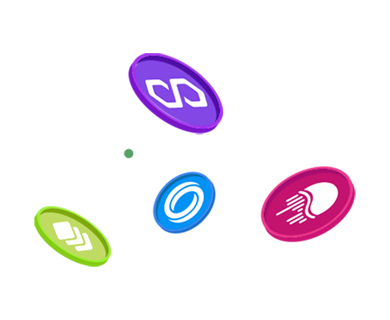
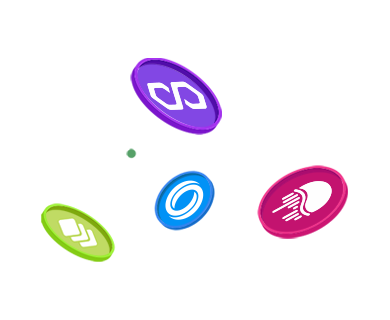
fix bg quality and max scale

diff --git a/src/components/Home/Hero/Hero.tsx b/src/components/Home/Hero/Hero.tsx
@@ -13,7 +13,7 @@ const w = 390;
 const h = 320;
 const r = h / w;
 
-const Outer = styled.div`
+const Container = styled(Inner)`
   display: flex;
   align-items: center;
   padding: ${40 + 24 * 2}px 0px;
@@ -23,17 +23,17 @@ const Outer = styled.div`
   background-size: ${(360 - 48) / 2}px ${((360 - 48) / 2) * r}px;
   min-height: 100vh;
   text-align: center;
+  flex-direction: column;
+  justify-content: center;
 
   @media (min-width: ${theme.breakpoints.sm}px) {
-    background-position: left 10%, right 10%, left bottom, right bottom;
+    background-position: left 5%, right 5%, left bottom, right bottom;
     background-size: ${(theme.breakpoints.sm - 48) / 2}px ${((theme.breakpoints.sm - 48) / 2) * r}px;
-  }
-
-  @media (min-width: ${theme.breakpoints.md}px) {
-    background-size: ${(theme.breakpoints.md - 48) / 2}px ${((theme.breakpoints.md - 48) / 2) * r}px;
+    width: 100%;
   }
 
   @media (min-width: ${theme.breakpoints.lg}px) {
+    width: ${theme.containers.lg}px;
     background-size: ${w}px ${h}px;
   }
 `;
@@ -75,21 +75,19 @@ const Buttons = styled.div`
 
 export const Hero = memo(function Hero() {
   return (
-    <Outer>
-      <Inner>
-        <Title>Multichain Yield Optimiser</Title>
-        <Subtitle>
-          Earn the highest APY’s across 16 chains with safety and efficiency in mind.
-        </Subtitle>
-        <Buttons>
-          <PrimaryExternalLink href="https://app.beefy.com/" target="_blank">
-            Launch App
-          </PrimaryExternalLink>
-          <SecondaryExternalLink href="https://docs.beefy.com/" target="_blank">
-            View Docs
-          </SecondaryExternalLink>
-        </Buttons>
-      </Inner>
-    </Outer>
+    <Container>
+      <Title>Multichain Yield Optimiser</Title>
+      <Subtitle>
+        Earn the highest APY’s across 16 chains with safety and efficiency in mind.
+      </Subtitle>
+      <Buttons>
+        <PrimaryExternalLink href="https://app.beefy.com/" target="_blank">
+          Launch App
+        </PrimaryExternalLink>
+        <SecondaryExternalLink href="https://docs.beefy.com/" target="_blank">
+          View Docs
+        </SecondaryExternalLink>
+      </Buttons>
+    </Container>
   );
 });
